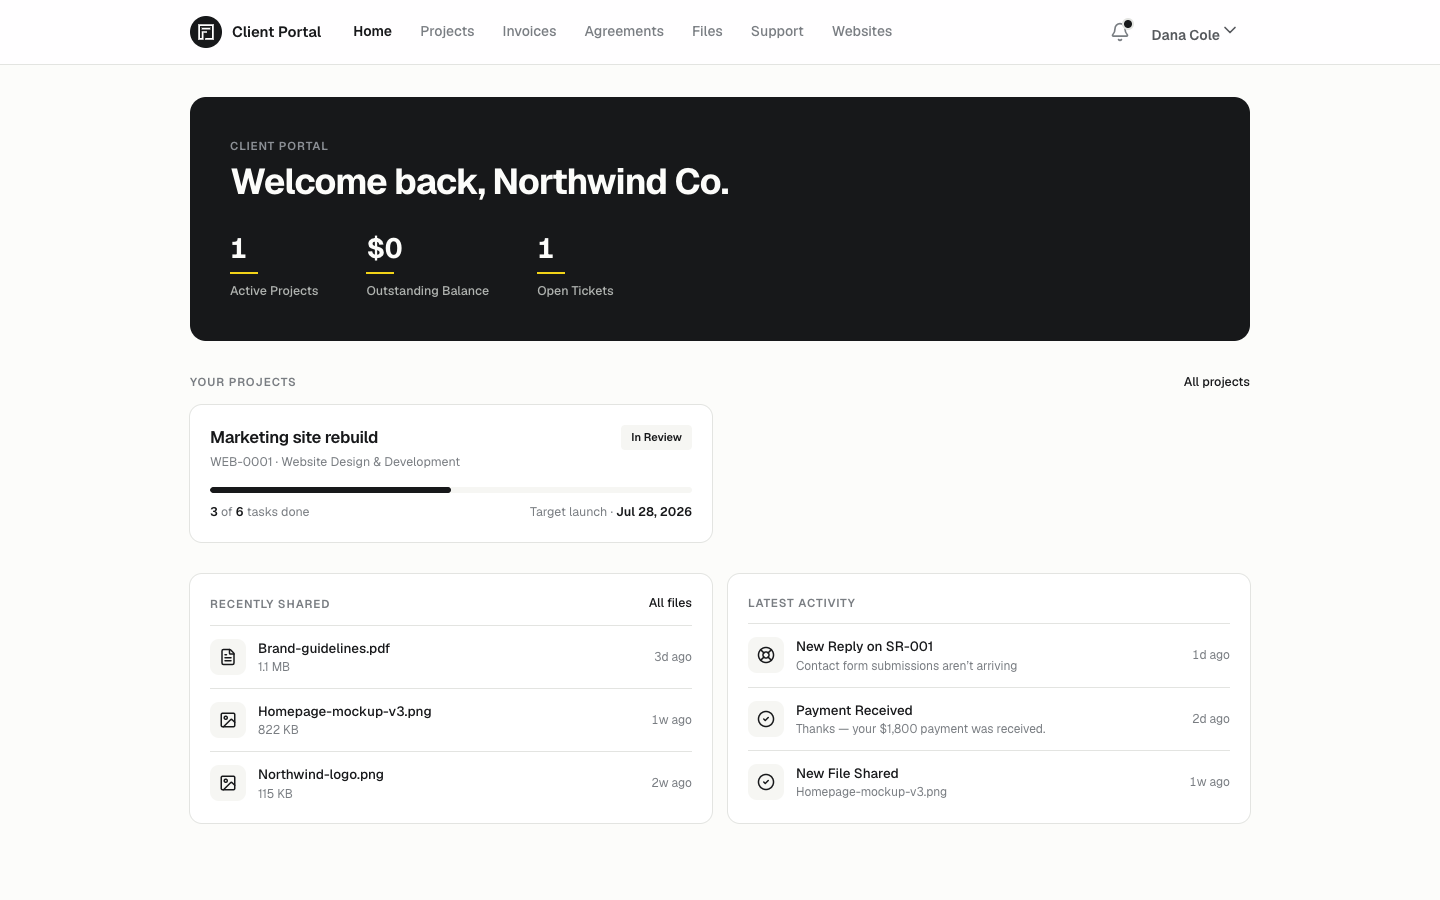
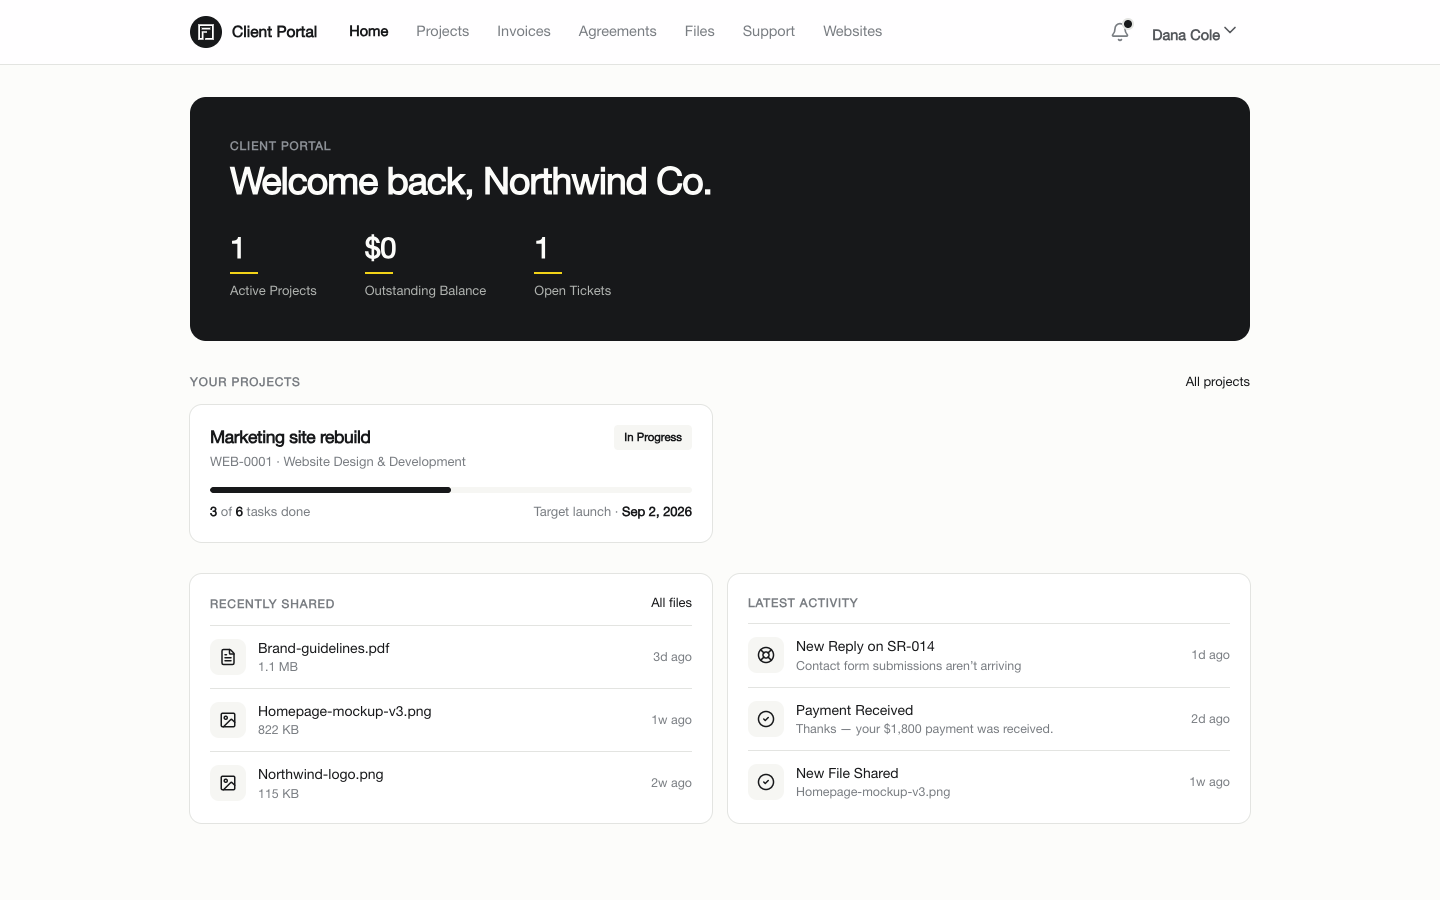
Seed: make the demo data reproduce the README screenshots
Two of the three screenshots needed the local DB patched by hand before they
showed a working system, which meant nobody could regenerate them — including
me, next time.

- Payments: one row became thirteen, spaced ~15 days across six months, so the
  dashboard's collected-revenue chart draws a curve instead of a single bar
  whenever the seed runs.
- Calls: four now pin to a fixed UTC hour instead of inheriting the run clock.
  The receptionist's "after-hours answered" counts anything outside 09:00–17:00,
  so an evening seed reported 7 of 7 after-hours; it now reads 3 of 7.
- Tickets and files had no seed at all — they were dev leftovers in my local DB
  ("Portal test ticket", an 8-byte my-logo.png). Two tickets with threads and
  four files now seed properly, which also gives the dashboard its "2 Open
  Tickets · 1 High Priority" rows and the portal its file rail.
- Portal notifications hang off a login rather than a client, so they seed only
  when one exists, and the ticket's SR- code comes from ticketCode() rather than
  a hardcoded string that would drift from the row's id.

--force also silently broke every portal login: users.client_id is ON DELETE SET
NULL, so wiping clients unlinked them and left the portal scoped to nothing. The
links are now captured before the delete and restored by company name after.

create-user gained --company / --client-id, and requires one for a client
account. Without the link the row it created could never sign into the portal —
[…]

diff --git a/server/src/db/seed.js b/server/src/db/seed.js
@@ -3,6 +3,7 @@
 //        npm run seed -- --force  (wipes everything first)
 import { getPool, closePool } from './pool.js'
 import { seedWebsites } from './seedWebsites.js'
+import { ticketCode } from '../repositories/tickets.repo.js'
 
 const force = process.argv.includes('--force')
 const pool = getPool()
@@ -19,6 +20,11 @@ const daysAhead = d => fmt(now + d * 86400e3)
 // DATE-column variants (no time component).
 const dateAgo = d => daysAgo(d).slice(0, 10)
 const dateAhead = d => daysAhead(d).slice(0, 10)
+// Same day offset, pinned to a UTC hour. Rows that inherit the run clock all
+// land in the same hour bucket, which skews any hour-of-day metric — the
+// receptionist's "after-hours answered" counts everything outside 09:00–17:00,
+// so a seed run in the evening would report 100% after-hours.
+const daysAgoAtHour = (d, hour) => `${dateAgo(d)} ${String(hour).padStart(2, '0')}:00:00`
 
 // ---- clients (status active/past) ----
 const CLIENTS = [
@@ -73,7 +79,7 @@ const CALLS = [
     summary: 'Sofia owns a flower shop and wants e-commerce with same-day delivery scheduling. Currently takes orders by phone.',
     captured: [['Name', 'Sofia Nguyen'], ['Business', 'Bloom Floral'], ['Reason for call', 'E-commerce + delivery scheduling']],
     transcript: [{ r: true, t: 'Francis Web Agency, how can I help?' }, { r: false, t: 'I want to start selling flowers online with delivery times.' }] },
-  { classification: 'client', linkClient: 'Northwind Co.', caller_name: 'Dana Cole', caller_number: '(503) 555-0110', business: 'Northwind Co. · Client', occurred_at: daysAgo(1), reviewed: true, duration_seconds: 125,
+  { classification: 'client', linkClient: 'Northwind Co.', caller_name: 'Dana Cole', caller_number: '(503) 555-0110', business: 'Northwind Co. · Client', occurred_at: daysAgoAtHour(1, 11), reviewed: true, duration_seconds: 125,
     summary: 'Dana from Northwind (existing client) called about an invoice question on their latest milestone.',
     captured: [['Name', 'Dana Cole'], ['Account', 'Active client'], ['Reason for call', 'Invoice question']],
     transcript: [{ r: true, t: 'Francis Web Agency, front desk.' }, { r: false, t: "It's Dana from Northwind — a quick invoice question." }] },
@@ -81,15 +87,15 @@ const CALLS = [
     summary: 'Automated robocall about an expiring vehicle warranty. Receptionist ended the call.',
     captured: [['Number', '(800) 555-0011'], ['Detected as', 'Robocall']],
     transcript: [{ r: true, t: 'Francis Web Agency, how can I help?' }, { r: false, t: '(Pre-recorded) …your vehicle warranty…' }] },
-  { classification: 'wrong_number', caller_number: '(646) 555-0295', occurred_at: daysAgo(2), reviewed: true, duration_seconds: 22,
+  { classification: 'wrong_number', caller_number: '(646) 555-0295', occurred_at: daysAgoAtHour(2, 10), reviewed: true, duration_seconds: 22,
     summary: 'Caller wanted a pharmacy and dialed the wrong number.',
     captured: [['Number', '(646) 555-0295'], ['Reason', 'Wanted a pharmacy']],
     transcript: [{ r: true, t: 'Francis Web Agency, how can I help?' }, { r: false, t: 'Is this the pharmacy on 5th?' }] },
-  { classification: 'other', caller_name: 'City of Portland', caller_number: '(503) 555-0777', business: 'Permitting Office', occurred_at: daysAgo(3), reviewed: true, duration_seconds: 70,
+  { classification: 'other', caller_name: 'City of Portland', caller_number: '(503) 555-0777', business: 'Permitting Office', occurred_at: daysAgoAtHour(3, 14), reviewed: true, duration_seconds: 70,
     summary: 'City permitting office following up on a business license renewal. Left a reference number.',
     captured: [['Caller', 'City of Portland'], ['Reference', 'BL-2026-4471']],
     transcript: [{ r: true, t: 'Francis Web Agency, front desk.' }, { r: false, t: 'Portland permitting office re: license renewal BL-2026-4471.' }] },
-  { classification: 'inquiry', caller_name: 'Tom Fielder', caller_number: '(503) 555-0192', business: 'Fielder Roofing', occurred_at: daysAgo(3), reviewed: false, duration_seconds: 347,
+  { classification: 'inquiry', caller_name: 'Tom Fielder', caller_number: '(503) 555-0192', business: 'Fielder Roofing', occurred_at: daysAgoAtHour(3, 15), reviewed: false, duration_seconds: 347,
     summary: 'Tom wants a lead-generation site with quote-request forms; comparing two agencies, so a fast proposal matters.',
     captured: [['Name', 'Tom Fielder'], ['Business', 'Fielder Roofing'], ['Note', 'Comparing 2 agencies']],
     transcript: [{ r: true, t: 'Francis Web Agency, how can I help?' }, { r: false, t: 'I need a site that brings in roofing leads.' }] }
@@ -178,8 +184,66 @@ const INVOICES = [
 ]
 
 // ---- payments ---- (invoiceKey references an INVOICES.key)
+// Rows without an invoiceKey are historical collections that predate the seeded
+// invoices. They exist so the dashboard's collected-revenue chart has a curve
+// instead of a single bar: spaced ~15 days apart across the last six months, so
+// every month in the 6M window carries two whenever the seed happens to run.
 const PAYMENTS = [
-  { invoiceKey: 'inv-northwind-dep', company: 'Northwind Co.', amount: 9000, method: 'card', paid_at: daysAgo(5), note: null }
+  { invoiceKey: 'inv-northwind-dep', company: 'Northwind Co.', amount: 9000, method: 'card', paid_at: daysAgo(5), note: null },
+  { company: 'Lumen Labs', amount: 5400, method: 'card', paid_at: daysAgo(12), note: 'Customer dashboard — deposit' },
+  { company: 'Northwind Co.', amount: 1800, method: 'bank', paid_at: daysAgo(20), note: 'Care plan — quarterly' },
+  { company: 'Bright & Salt', amount: 2900, method: 'card', paid_at: daysAgo(35), note: 'Care plan — half-year' },
+  { company: 'Harborview', amount: 3600, method: 'bank', paid_at: daysAgo(48), note: 'Booking site — final' },
+  { company: 'Mintleaf', amount: 8800, method: 'card', paid_at: daysAgo(62), note: 'E-commerce storefront — deposit' },
+  { company: 'Lumen Labs', amount: 2400, method: 'card', paid_at: daysAgo(75), note: 'Brand site — final' },
+  { company: 'Ridgeline', amount: 7500, method: 'bank', paid_at: daysAgo(90), note: 'Customer dashboard — deposit' },
+  { company: 'Bright & Salt', amount: 6200, method: 'card', paid_at: daysAgo(105), note: 'Brand site — final' },
+  { company: 'Northwind Co.', amount: 1800, method: 'bank', paid_at: daysAgo(120), note: 'Care plan — quarterly' },
+  { company: 'Harborview', amount: 2800, method: 'card', paid_at: daysAgo(135), note: 'Booking site — deposit' },
+  { company: 'Lumen Labs', amount: 4500, method: 'card', paid_at: daysAgo(150), note: 'Site build — deposit' },
+  { company: 'Vantage Group', amount: 3400, method: 'bank', paid_at: daysAgo(165), note: 'Retainer — final month' }
+]
+
+// ---- support tickets ---- (the portal's Support page, the admin Support
+// Tickets page, and the dashboard's open/high-priority Needs Attention rows.
+// Both stay `open` so the dashboard reads "2 Open Tickets · 1 High Priority".)
+const TICKETS = [
+  { key: 'northwind-form', company: 'Northwind Co.', subject: 'Contact form submissions aren’t arriving', type: 'issue', status: 'open', priority: 'high', opened_by: 'client',
+    description: 'We filled in the contact form twice this morning and nothing came through to our inbox. Nothing in spam either.',
+    created_at: daysAgo(4), last_activity_at: daysAgo(1),
+    messages: [
+      { author_type: 'client', body: 'Tested from two different browsers — the form says it sent, but no email arrives.', at: daysAgo(4) },
+      { author_type: 'admin', body: 'Found it: the notification address bounced after your domain move. Repointed it and sent a test through — can you confirm you got it?', at: daysAgo(1) }
+    ] },
+  { key: 'lumen-safari', company: 'Lumen Labs', subject: 'Dashboard login loop on Safari', type: 'bug', status: 'open', priority: 'medium', opened_by: 'client',
+    description: 'Signing in on Safari bounces straight back to the login screen. Chrome is fine.',
+    created_at: daysAgo(6), last_activity_at: daysAgo(2),
+    messages: [
+      { author_type: 'client', body: 'Two of our team hit this on Safari 18. Chrome and Firefox log in normally.', at: daysAgo(6) },
+      { author_type: 'admin', body: 'Reproduced — Safari is dropping the session cookie under ITP. Testing a fix on staging today.', at: daysAgo(2) }
+    ] }
+]
+
+// ---- files ---- (Workspace › Files, and the portal's "Recently shared" rail.)
+// Metadata only: `path` points into the shared upload store, but the seed writes
+// no bytes there, so downloading a seeded row 404s. Everything the UI renders —
+// name, type, size, who shared it, when — comes from the row.
+const FILES = [
+  { company: 'Northwind Co.', projectKey: null, category: 'deliverable', name: 'Brand-guidelines.pdf', title: null, mime: 'application/pdf', size_bytes: 1204338, uploaded_by: 'admin', created_at: daysAgo(3), path: '/uploads/seed-brand-guidelines.pdf' },
+  { company: 'Northwind Co.', projectKey: 'northwind-rebuild', category: 'deliverable', name: 'Homepage-mockup-v3.png', title: 'Homepage Mockup — v3', mime: 'image/png', size_bytes: 842113, uploaded_by: 'admin', created_at: daysAgo(7), path: '/uploads/seed-homepage-mockup-v3.png' },
+  { company: 'Northwind Co.', projectKey: null, category: 'brand', name: 'Northwind-logo.png', title: 'Northwind Primary Logo', mime: 'image/png', size_bytes: 118204, uploaded_by: 'client', created_at: daysAgo(12), path: '/uploads/seed-northwind-logo.png' },
+  { company: 'Mintleaf', projectKey: 'mintleaf-store', category: 'deliverable', name: 'Product-photography.zip', title: null, mime: 'application/zip', size_bytes: 24880512, uploaded_by: 'client', created_at: daysAgo(9), path: '/uploads/seed-product-photography.zip' }
+]
+
+// ---- client notifications ---- (the portal bell + the portal home's "Latest
+// activity" rail). Notifications are strictly per-user, so these are only
+// inserted when a portal login already exists for the client — `npm run
+// create-user -- --role client --company "…"` makes one. `ticketKey` resolves
+// to that ticket's SR- code and deep link once the ticket has an id.
+const CLIENT_NOTIFICATIONS = [
+  { company: 'Northwind Co.', category: 'ticket', tone: 'info', icon: 'i-lucide-life-buoy', ticketKey: 'northwind-form', title: 'New Reply on {code}', body: 'Contact form submissions aren’t arriving', read: false, created_at: daysAgo(1) },
+  { company: 'Northwind Co.', category: 'payment', tone: 'success', icon: 'i-lucide-check-circle-2', title: 'Payment Received', body: 'Thanks — your $1,800 payment was received.', link: '/invoices', read: true, created_at: daysAgo(2) },
+  { company: 'Northwind Co.', category: 'system', tone: 'brand', icon: 'i-lucide-check-circle-2', title: 'New File Shared', body: 'Homepage-mockup-v3.png', link: '/files', read: true, created_at: daysAgo(7) }
 ]
 
 // ---- expenses ---- (money out). `company` (optional) links to a client;
@@ -261,12 +325,22 @@ try {
     await closePool()
     process.exit(0)
   }
+  // users.client_id is ON DELETE SET NULL, so wiping clients silently unlinks
+  // every portal login and leaves it unable to see anything. Remember which
+  // company each one belonged to and re-link by name once the new rows exist.
+  let portalLinks = []
   if (force) {
+    ;[portalLinks] = await pool.query(
+      "SELECT u.id, c.company FROM users u JOIN clients c ON c.id = u.client_id WHERE u.role = 'client'"
+    )
     // Children first — everything that FK-references clients (RESTRICT) must go
     // before clients. Line-item tables cascade with their parent. calls SET NULL,
     // deleted explicitly. leads has no children.
     await pool.query('DELETE FROM payments')
     await pool.query('DELETE FROM expenses') // client_id RESTRICT, must precede clients
+    await pool.query('DELETE FROM tickets') // cascades ticket_messages + ticket_attachments
+    await pool.query('DELETE FROM files') // client/project FKs are SET NULL — clear explicitly
+                                          // or old rows survive every reseed, unattached
     await pool.query('DELETE FROM websites') // cascades website_metrics
     await pool.query('DELETE FROM invoices') // cascades invoice_line_items
     await pool.query('DELETE FROM contracts') // cascades contract_line_items
@@ -287,6 +361,10 @@ try {
 
   for (const c of CLIENTS) {
     companyToClientId[c.company] = await insertRow('clients', { ...c })
+  }
+  for (const link of portalLinks) {
+    const clientId = companyToClientId[link.company]
+    if (clientId) await pool.query('UPDATE users SET client_id = ? WHERE id = ?', [clientId, link.id])
   }
   for (const l of INBOUND) {
     const { slug, createdAt, ...rest } = l
@@ -425,6 +503,58 @@ try {
     await pool.query(`INSERT INTO expenses ${sql}`, params)
   }
 
+  const ticketKeyToId = {}
+  for (const t of TICKETS) {
+    const { key, company, messages, ...rest } = t
+    const row = { ...rest, client_id: companyToClientId[company] }
+    const { sql, params } = cols(row)
+    const [res] = await pool.query(`INSERT INTO tickets ${sql}`, params)
+    ticketKeyToId[key] = res.insertId
+    for (const m of messages ?? []) {
+      await pool.query(
+        'INSERT INTO ticket_messages (ticket_id, author_type, body, created_at) VALUES (?, ?, ?, ?)',
+        [res.insertId, m.author_type, m.body, m.at]
+      )
+    }
+  }
+
+  for (const f of FILES) {
+    const { company, projectKey, ...rest } = f
+    const row = {
+      ...rest,
+      client_id: company ? companyToClientId[company] : null,
+      project_id: projectKey ? projectKeyToId[projectKey] : null
+    }
+    const { sql, params } = cols(row)
+    await pool.query(`INSERT INTO files ${sql}`, params)
+  }
+
+  // Portal-side notifications hang off a login, not a client, so they can only
+  // be seeded for clients that already have one.
+  const [portalUsers] = await pool.query("SELECT id, client_id FROM users WHERE role = 'client' AND client_id IS NOT NULL")
+  const clientIdToUserId = Object.fromEntries(portalUsers.map(u => [u.client_id, u.id]))
+  let clientNotes = 0
+  for (const note of CLIENT_NOTIFICATIONS) {
+    const { company, ticketKey, read, ...rest } = note
+    const userId = clientIdToUserId[companyToClientId[company]]
+    if (!userId) continue
+    const ticketId = ticketKey ? (ticketKeyToId[ticketKey] ?? null) : null
+    const row = {
+      ...rest,
+      user_id: userId,
+      title: ticketId ? rest.title.replace('{code}', ticketCode(ticketId)) : rest.title,
+      link: ticketId ? `/support/${ticketId}` : (rest.link ?? null),
+      read_at: read ? daysAgo(0) : null
+    }
+    const { sql, params } = cols(row)
+    await pool.query(`INSERT INTO notifications ${sql}`, params)
+    clientNotes++
+  }
+  if (clientNotes === 0) {
+    console.log('• No client logins found — skipped the portal notification feed. Create one, then reseed:')
+    console.log('  npm run create-user -- --email dana@northwind.com --name "Dana Cole" --password \'…\' --role client --company "Northwind Co."')
+  }
+
   // websites + 90d of daily metrics (idempotent; links to the clients/projects above).
   const web = await seedWebsites()
 
@@ -438,7 +568,9 @@ try {
   const [[ic]] = await pool.query('SELECT COUNT(*) AS n FROM invoices')
   const [[yc]] = await pool.query('SELECT COUNT(*) AS n FROM payments')
   const [[ec]] = await pool.query('SELECT COUNT(*) AS n FROM expenses')
-  console.log(`✔ Seeded ${lc.n} leads (${lt.n} touches), ${cc.n} clients, ${kc.n} calls, ${nc.n} notifications, ${pc.n} projects, ${tc.n} tasks, ${ic.n} invoices, ${yc.n} payments, ${ec.n} expenses, and ${web.created} websites (${web.metricsInserted} metric rows).`)
+  const [[sc]] = await pool.query('SELECT COUNT(*) AS n FROM tickets')
+  const [[fc]] = await pool.query('SELECT COUNT(*) AS n FROM files')
+  console.log(`✔ Seeded ${lc.n} leads (${lt.n} touches), ${cc.n} clients, ${kc.n} calls, ${nc.n} notifications, ${pc.n} projects, ${tc.n} tasks, ${ic.n} invoices, ${yc.n} payments, ${ec.n} expenses, ${sc.n} tickets, ${fc.n} files, and ${web.created} websites (${web.metricsInserted} metric rows).`)
 } finally {
   await closePool()
 }

diff --git a/server/src/db/create-user.js b/server/src/db/create-user.js
@@ -1,7 +1,13 @@
 // Create (or update) a login account.
 // Usage:
 //   npm run create-user -- --email you@fwa.com --name "Jordan Rivera" --password 'secret'
-//   npm run create-user -- --email c@acme.com --name "Acme" --password 'secret' --role client
+//   npm run create-user -- --email dana@northwind.com --name "Dana Cole" --password 'secret' \
+//     --role client --company "Northwind Co."
+//
+// A client account must be linked to a client — that link is what the portal
+// reads every request to scope the data. In production the link comes from the
+// portal invite an admin sends; --company (or --client-id) is the local
+// equivalent so a dev can make a working portal login in one command.
 import { parseArgs } from 'node:util'
 import bcrypt from 'bcryptjs'
 import { getPool, closePool } from './pool.js'
@@ -11,11 +17,14 @@ const { values } = parseArgs({
     email: { type: 'string' },
     name: { type: 'string' },
     password: { type: 'string' },
-    role: { type: 'string', default: 'admin' }
+    role: { type: 'string', default: 'admin' },
+    company: { type: 'string' },
+    'client-id': { type: 'string' }
   }
 })
 
-const { email, name, password, role } = values
+const { email, name, password, role, company } = values
+const clientIdArg = values['client-id']
 
 function fail(msg) {
   console.error(`✖ ${msg}`)
@@ -31,23 +40,48 @@ if (!['admin', 'client'].includes(role)) {
 if (password.length < 8) {
   fail('Password must be at least 8 characters')
 }
+if (role === 'admin' && (company || clientIdArg)) {
+  fail('--company / --client-id only apply to --role client')
+}
+if (role === 'client' && !company && !clientIdArg) {
+  fail('A client account needs --company "Acme Co." (or --client-id 42) — without it the portal has nothing to scope to')
+}
+
+// Resolve the client link before hashing, so a bad company name fails fast.
+let clientId = null
+let clientCompany = null
+if (role === 'client') {
+  const [rows] = clientIdArg
+    ? await getPool().query('SELECT id, company FROM clients WHERE id = ?', [Number(clientIdArg)])
+    : await getPool().query('SELECT id, company FROM clients WHERE company = ?', [company])
+  if (!rows.length) {
+    await closePool()
+    fail(`No client matches ${clientIdArg ? `id ${clientIdArg}` : `"${company}"`}`)
+  }
+  clientId = rows[0].id
+  clientCompany = rows[0].company
+}
 
 const passwordHash = await bcrypt.hash(password, 12)
 
-// Upsert so re-running with the same email rotates the password / updates details.
+// Upsert so re-running with the same email rotates the password / updates
+// details. client_id is only rewritten for client rows, so re-running against
+// an admin can never quietly attach it to a client.
 const sql = `
-  INSERT INTO users (email, name, password_hash, role)
-  VALUES (:email, :name, :passwordHash, :role)
+  INSERT INTO users (email, name, password_hash, role, client_id)
+  VALUES (:email, :name, :passwordHash, :role, :clientId)
   ON DUPLICATE KEY UPDATE
     name = VALUES(name),
     password_hash = VALUES(password_hash),
     role = VALUES(role),
+    client_id = IF(VALUES(role) = 'admin', NULL, VALUES(client_id)),
     is_active = 1
 `
 
 try {
-  await getPool().query(sql, { email, name, passwordHash, role })
-  console.log(`✔ Account ready: ${email} (${role})`)
+  await getPool().query(sql, { email, name, passwordHash, role, clientId })
+  const link = clientId ? ` → ${clientCompany} (client #${clientId})` : ''
+  console.log(`✔ Account ready: ${email} (${role})${link}`)
 } finally {
   await closePool()
 }

diff --git a/README.md b/README.md
@@ -95,8 +95,8 @@ cd server
 npm install
 cp .env.example .env     # dev defaults work as-is; add keys for Stripe/PandaDoc/Vapi features
 npm run migrate          # creates the DB (default: fwa_ops) and applies the schema
-npm run seed
-npm run create-user      # your admin login
+npm run seed             # demo clients, leads, calls, projects, invoices, six months of payments
+npm run create-user -- --email you@fwa.com --name "Your Name" --password '…'
 npm run dev
 
 # Admin app → http://localhost:3000
@@ -105,6 +105,19 @@ cd ../app && npm install && npm run dev
 # Client portal → http://localhost:3001 (Nuxt takes the next free port)
 cd ../portal && npm install && npm run dev
 ```
+
+The seed is what the screenshots above were taken from. To see the portal side, add a client login
+and reseed — the portal's notification feed is per-user, so it fills in on the next seed:
+
+```bash
+cd server
+npm run create-user -- --email dana@northwind.com --name "Dana Cole" \
+  --password '…' --role client --company "Northwind Co."
+npm run seed -- --force
+```
+
+Both apps run on `localhost`, and cookies ignore the port — signing into one signs you out of the
+other. That's a local-only artifact; in production they sit on separate subdomains.
 
 The marketing site runs separately — see `website/CLAUDE.md`.
 
